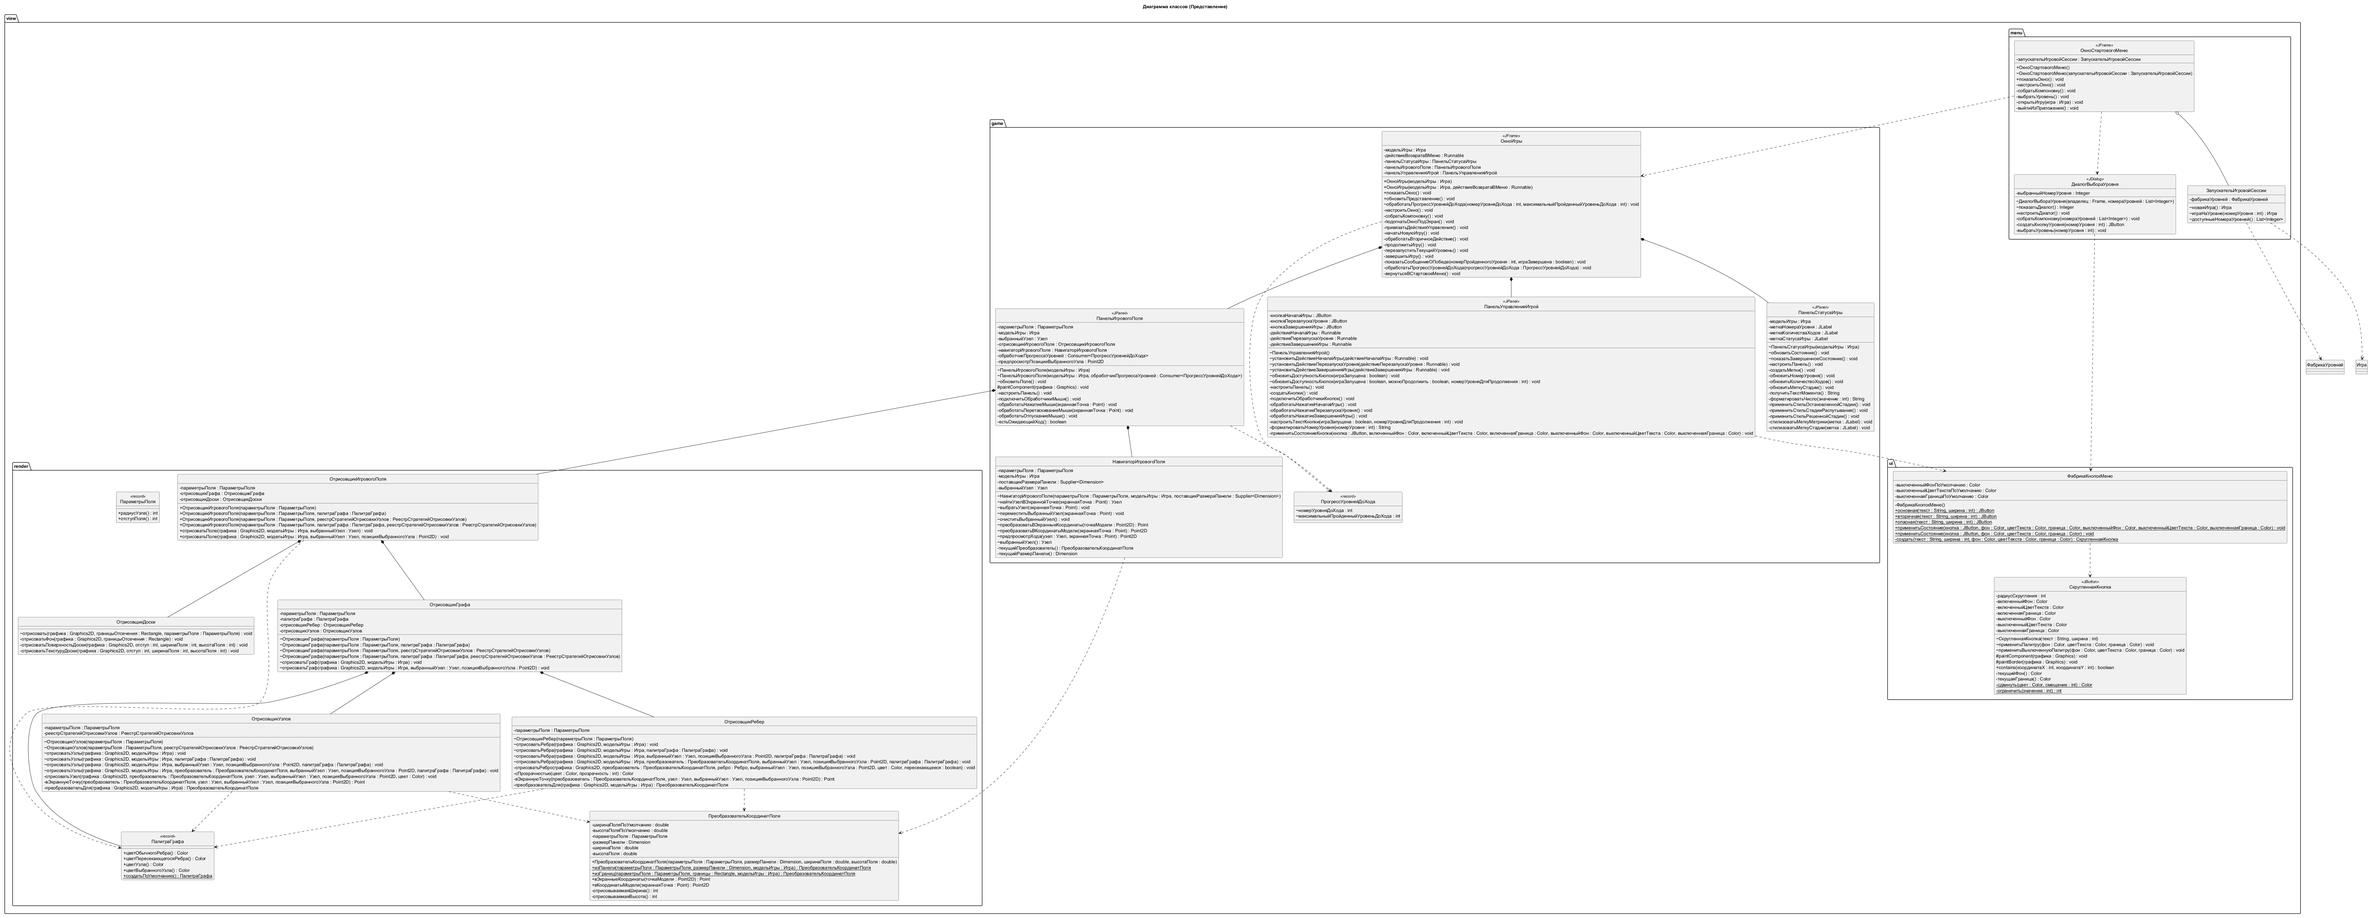
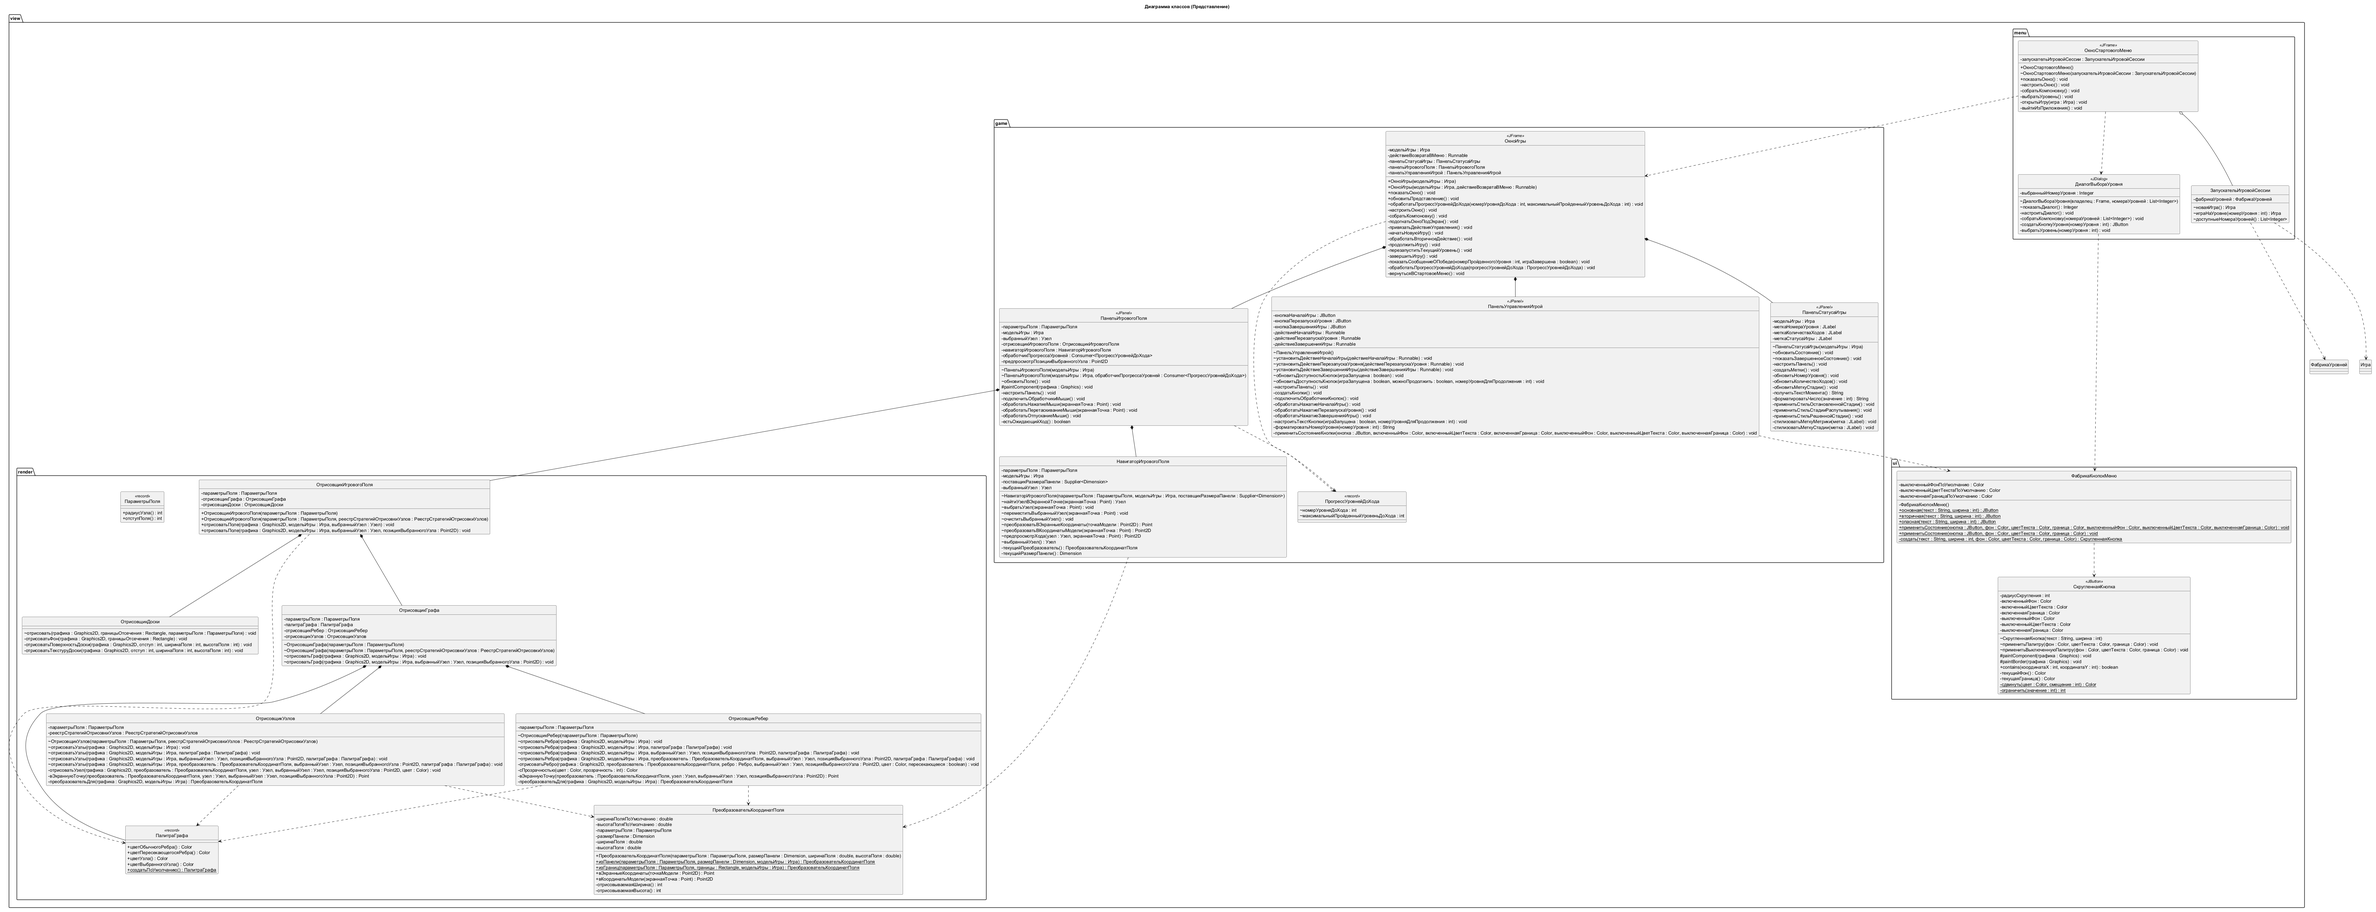
[view] Упрощены конструкторы рендереров

diff --git a/test/view/render/GameFieldRendererTest.java b/test/view/render/GameFieldRendererTest.java
@@ -8,7 +8,6 @@ import org.junit.jupiter.api.DisplayName;
 import org.junit.jupiter.api.Test;
 import view.render.node.NodeRenderStrategyRegistry;
 
-import java.awt.Color;
 import java.awt.Graphics2D;
 import java.awt.Point;
 import java.awt.geom.Point2D;
@@ -26,8 +25,8 @@ class GameFieldRendererTest {
         Game game = startedGame();
         Node selectedNode = game.currentLevel().scheme().getNodes().getFirst();
         FieldParameters parameters = new FieldParameters(12, 28);
-        Color selectedColor = new Color(230, 155, 44);
-        GameFieldRenderer renderer = renderer(parameters, selectedColor);
+        GraphPalette palette = GraphPalette.defaultPalette();
+        GameFieldRenderer renderer = renderer(parameters);
 
         BufferedImage image = SwingTestSupport.createCanvas(320, 320);
         Graphics2D graphics = SwingTestSupport.createGraphics(image);
@@ -39,14 +38,14 @@ class GameFieldRendererTest {
 
         Point point = SwingTestSupport.toScreenPoint(parameters, game, selectedNode.getX(), selectedNode.getY(), image.getWidth(), image.getHeight());
 
-        assertEquals(selectedColor.getRGB(), image.getRGB(point.x, point.y));
+        assertEquals(palette.selectedNodeColor().getRGB(), image.getRGB(point.x, point.y));
     }
 
     @Test
     @DisplayName("Рендерер поля рисует поле, даже когда игра не запущена")
     void paintsFieldWhenGameIsStopped() {
         Game game = new Game();
-        GameFieldRenderer renderer = renderer(new FieldParameters(12, 28), new Color(230, 155, 44));
+        GameFieldRenderer renderer = renderer(new FieldParameters(12, 28));
 
         BufferedImage image = SwingTestSupport.createCanvas(320, 320);
         Graphics2D graphics = SwingTestSupport.createGraphics(image);
@@ -63,7 +62,6 @@ class GameFieldRendererTest {
     @DisplayName("Рендерер поля не принимает пустые параметры поля")
     void rejectsNullFieldParameters() {
         assertThrows(NullPointerException.class, () -> new GameFieldRenderer(null));
-        assertThrows(NullPointerException.class, () -> new GameFieldRenderer(null, GraphPalette.defaultPalette()));
     }
 
     @Test
@@ -75,17 +73,9 @@ class GameFieldRendererTest {
     }
 
     @Test
-    @DisplayName("Рендерер поля не принимает пустую палитру графа")
-    void rejectsNullGraphPalette() {
-        FieldParameters parameters = new FieldParameters(12, 28);
-
-        assertThrows(NullPointerException.class, () -> new GameFieldRenderer(parameters, (GraphPalette) null));
-    }
-
-    @Test
     @DisplayName("Рендерер поля не принимает пустой графический контекст")
     void rejectsNullGraphics() {
-        assertThrows(NullPointerException.class, () -> renderer(new FieldParameters(12, 28), Color.ORANGE).drawField(null, new Game(), null));
+        assertThrows(NullPointerException.class, () -> renderer(new FieldParameters(12, 28)).drawField(null, new Game(), null));
     }
 
     @Test
@@ -94,7 +84,7 @@ class GameFieldRendererTest {
         BufferedImage image = SwingTestSupport.createCanvas(320, 320);
         Graphics2D graphics = SwingTestSupport.createGraphics(image);
         try {
-            assertThrows(NullPointerException.class, () -> renderer(new FieldParameters(12, 28), Color.ORANGE).drawField(graphics, null, null));
+            assertThrows(NullPointerException.class, () -> renderer(new FieldParameters(12, 28)).drawField(graphics, null, null));
         } finally {
             graphics.dispose();
         }
@@ -105,7 +95,7 @@ class GameFieldRendererTest {
     void paintsBackgroundAndBoardWithDifferentColors() {
         Game game = startedGame();
         FieldParameters parameters = new FieldParameters(12, 28);
-        GameFieldRenderer renderer = renderer(parameters, new Color(230, 155, 44));
+        GameFieldRenderer renderer = renderer(parameters);
         BufferedImage image = SwingTestSupport.createCanvas(320, 320);
         Graphics2D graphics = SwingTestSupport.createGraphics(image);
         try {
@@ -125,14 +115,8 @@ class GameFieldRendererTest {
     void usesRegularNodeColorForUnselectedNode() {
         Game game = startedGame();
         FieldParameters parameters = new FieldParameters(12, 28);
-        Color nodeColor = new Color(53, 111, 179);
-        GraphPalette palette = new GraphPalette(
-                new Color(66, 63, 60),
-                new Color(198, 59, 59),
-                nodeColor,
-                new Color(230, 155, 44)
-        );
-        GameFieldRenderer renderer = new GameFieldRenderer(parameters, palette);
+        GraphPalette palette = GraphPalette.defaultPalette();
+        GameFieldRenderer renderer = new GameFieldRenderer(parameters);
         Node node = game.currentLevel().scheme().getNodes().getFirst();
 
         BufferedImage image = SwingTestSupport.createCanvas(320, 320);
@@ -145,7 +129,7 @@ class GameFieldRendererTest {
 
         Point point = SwingTestSupport.toScreenPoint(parameters, game, node.getX(), node.getY(), image.getWidth(), image.getHeight());
 
-        assertEquals(nodeColor.getRGB(), image.getRGB(point.x, point.y));
+        assertEquals(palette.nodeColor().getRGB(), image.getRGB(point.x, point.y));
     }
 
     @Test
@@ -153,15 +137,8 @@ class GameFieldRendererTest {
     void updatesEdgeColorInPreviewBeforeMouseRelease() {
         Game game = startedGame();
         FieldParameters parameters = new FieldParameters(12, 28);
-        Color normalEdgeColor = new Color(66, 63, 60);
-        Color intersectingEdgeColor = new Color(198, 59, 59);
-        GraphPalette palette = new GraphPalette(
-                normalEdgeColor,
-                intersectingEdgeColor,
-                new Color(53, 111, 179),
-                new Color(230, 155, 44)
-        );
-        GameFieldRenderer renderer = new GameFieldRenderer(parameters, palette);
+        GraphPalette palette = GraphPalette.defaultPalette();
+        GameFieldRenderer renderer = new GameFieldRenderer(parameters);
         Node selectedNode = game.currentLevel().scheme().getNodes().get(1);
 
         BufferedImage image = SwingTestSupport.createCanvas(320, 320);
@@ -174,14 +151,14 @@ class GameFieldRendererTest {
 
         Point point = SwingTestSupport.toScreenPoint(parameters, game, 50, 7.5, image.getWidth(), image.getHeight());
 
-        assertEquals(normalEdgeColor.getRGB(), image.getRGB(point.x, point.y));
-        assertNotEquals(intersectingEdgeColor.getRGB(), image.getRGB(point.x, point.y));
+        assertEquals(palette.normalEdgeColor().getRGB(), image.getRGB(point.x, point.y));
+        assertNotEquals(palette.intersectingEdgeColor().getRGB(), image.getRGB(point.x, point.y));
     }
 
     @Test
     @DisplayName("Рендерер поля может рисовать без явной области отсечения")
     void canDrawWithoutExplicitClip() {
-        GameFieldRenderer renderer = renderer(new FieldParameters(12, 28), new Color(230, 155, 44));
+        GameFieldRenderer renderer = renderer(new FieldParameters(12, 28));
         BufferedImage image = SwingTestSupport.createCanvas(320, 320);
         Graphics2D graphics = image.createGraphics();
         try {
@@ -197,15 +174,7 @@ class GameFieldRendererTest {
         return game;
     }
 
-    private static GameFieldRenderer renderer(FieldParameters parameters, Color selectedColor) {
-        return new GameFieldRenderer(
-                parameters,
-                new GraphPalette(
-                        new Color(66, 63, 60),
-                        new Color(198, 59, 59),
-                        new Color(53, 111, 179),
-                        selectedColor
-                )
-        );
+    private static GameFieldRenderer renderer(FieldParameters parameters) {
+        return new GameFieldRenderer(parameters);
     }
 }

diff --git a/test/view/render/NodeRendererTest.java b/test/view/render/NodeRendererTest.java
@@ -24,13 +24,13 @@ class NodeRendererTest {
     @Test
     @DisplayName("Рендерер узлов не принимает пустые параметры поля")
     void rejectsNullFieldParameters() {
-        assertThrows(NullPointerException.class, () -> new NodeRenderer(null));
+        assertThrows(NullPointerException.class, () -> new NodeRenderer(null, NodeRenderStrategyRegistry.createDefault()));
     }
 
     @Test
     @DisplayName("Рендерер узлов не принимает пустой графический контекст")
     void rejectsNullGraphics() {
-        assertThrows(NullPointerException.class, () -> new NodeRenderer(new FieldParameters(12, 28)).drawNodes(null, new Game()));
+        assertThrows(NullPointerException.class, () -> renderer(new FieldParameters(12, 28)).drawNodes(null, new Game()));
     }
 
     @Test
@@ -39,7 +39,7 @@ class NodeRendererTest {
         BufferedImage image = SwingTestSupport.createCanvas(320, 320);
         Graphics2D graphics = SwingTestSupport.createGraphics(image);
         try {
-            assertThrows(NullPointerException.class, () -> new NodeRenderer(new FieldParameters(12, 28)).drawNodes(graphics, null));
+            assertThrows(NullPointerException.class, () -> renderer(new FieldParameters(12, 28)).drawNodes(graphics, null));
         } finally {
             graphics.dispose();
         }
@@ -51,7 +51,7 @@ class NodeRendererTest {
         Game game = startedGame();
         FieldParameters parameters = new FieldParameters(12, 28);
         Node node = game.currentLevel().scheme().getNodes().getFirst();
-        NodeRenderer renderer = new NodeRenderer(parameters);
+        NodeRenderer renderer = renderer(parameters);
         BufferedImage image = SwingTestSupport.createCanvas(320, 320);
         Graphics2D graphics = SwingTestSupport.createGraphics(image);
         Color nodeColor = new Color(40, 120, 190);
@@ -74,7 +74,7 @@ class NodeRendererTest {
         Game game = startedGame();
         FieldParameters parameters = new FieldParameters(12, 28);
         Node node = game.currentLevel().scheme().getNodes().getFirst();
-        NodeRenderer renderer = new NodeRenderer(parameters);
+        NodeRenderer renderer = renderer(parameters);
         BufferedImage image = SwingTestSupport.createCanvas(320, 320);
         Graphics2D graphics = SwingTestSupport.createGraphics(image);
         Color nodeColor = new Color(40, 120, 190);
@@ -97,7 +97,7 @@ class NodeRendererTest {
         Game game = startedGame();
         FieldParameters parameters = new FieldParameters(12, 28);
         Node node = game.currentLevel().scheme().getNodes().get(2);
-        NodeRenderer renderer = new NodeRenderer(parameters);
+        NodeRenderer renderer = renderer(parameters);
         BufferedImage image = SwingTestSupport.createCanvas(320, 320);
         Graphics2D graphics = SwingTestSupport.createGraphics(image);
         Color nodeColor = new Color(40, 120, 190);
@@ -119,7 +119,7 @@ class NodeRendererTest {
         Game game = startedGame();
         FieldParameters parameters = new FieldParameters(12, 28);
         Node node = game.currentLevel().scheme().getNodes().get(3);
-        NodeRenderer renderer = new NodeRenderer(parameters);
+        NodeRenderer renderer = renderer(parameters);
         BufferedImage image = SwingTestSupport.createCanvas(320, 320);
         Graphics2D graphics = SwingTestSupport.createGraphics(image);
         Color nodeColor = new Color(40, 120, 190);
@@ -165,7 +165,7 @@ class NodeRendererTest {
     @DisplayName("Рендерер узлов не меняет изображение, когда игра не запущена")
     void leavesImageUnchangedWhenGameIsNotStarted() {
         Game game = new Game();
-        NodeRenderer renderer = new NodeRenderer(new FieldParameters(12, 28));
+        NodeRenderer renderer = renderer(new FieldParameters(12, 28));
         BufferedImage image = SwingTestSupport.createCanvas(320, 320);
         Graphics2D graphics = SwingTestSupport.createGraphics(image);
         try {
@@ -181,7 +181,7 @@ class NodeRendererTest {
     @DisplayName("Рендерер узлов может рисовать без явной области отсечения")
     void canDrawWithoutExplicitClip() {
         Game game = startedGame();
-        NodeRenderer renderer = new NodeRenderer(new FieldParameters(12, 28));
+        NodeRenderer renderer = renderer(new FieldParameters(12, 28));
         BufferedImage image = SwingTestSupport.createCanvas(320, 320);
         Graphics2D graphics = image.createGraphics();
         try {
@@ -195,7 +195,7 @@ class NodeRendererTest {
     @DisplayName("Рендерер узлов не принимает пустую палитру")
     void rejectsNullPalette() {
         Game game = startedGame();
-        NodeRenderer renderer = new NodeRenderer(new FieldParameters(12, 28));
+        NodeRenderer renderer = renderer(new FieldParameters(12, 28));
         BufferedImage image = SwingTestSupport.createCanvas(320, 320);
         Graphics2D graphics = SwingTestSupport.createGraphics(image);
         try {
@@ -215,5 +215,9 @@ class NodeRendererTest {
         Game game = new Game();
         game.start();
         return game;
+    }
+
+    private static NodeRenderer renderer(FieldParameters parameters) {
+        return new NodeRenderer(parameters, NodeRenderStrategyRegistry.createDefault());
     }
 }

diff --git a/test/view/render/GraphRendererTest.java b/test/view/render/GraphRendererTest.java
@@ -6,15 +6,14 @@ import model.core.Game;
 import model.core.Node;
 import org.junit.jupiter.api.DisplayName;
 import org.junit.jupiter.api.Test;
+import view.render.node.NodeRenderStrategyRegistry;
 
-import java.awt.Color;
 import java.awt.Graphics2D;
 import java.awt.Point;
 import java.awt.image.BufferedImage;
 
 import static org.junit.jupiter.api.Assertions.assertDoesNotThrow;
 import static org.junit.jupiter.api.Assertions.assertEquals;
-import static org.junit.jupiter.api.Assertions.assertNotEquals;
 import static org.junit.jupiter.api.Assertions.assertThrows;
 
 class GraphRendererTest {
@@ -66,36 +65,6 @@ class GraphRendererTest {
     }
 
     @Test
-    @DisplayName("Рендерер графа использует кастомную палитру")
-    void usesCustomPalette() {
-        Game game = startedGame();
-        FieldParameters parameters = new FieldParameters(12, 28);
-        Color normalEdge = new Color(1, 2, 3);
-        Color intersectingEdge = new Color(4, 5, 6);
-        Color nodeColor = new Color(7, 8, 9);
-        Color selectedColor = new Color(10, 11, 12);
-        GraphRenderer renderer = new GraphRenderer(
-                parameters,
-                new GraphPalette(normalEdge, intersectingEdge, nodeColor, selectedColor)
-        );
-        BufferedImage image = SwingTestSupport.createCanvas(320, 320);
-        Graphics2D graphics = SwingTestSupport.createGraphics(image);
-        Node node = game.currentLevel().scheme().getNodes().getFirst();
-        try {
-            renderer.drawGraph(graphics, game, node, null);
-        } finally {
-            graphics.dispose();
-        }
-
-        Point nodePoint = SwingTestSupport.toScreenPoint(parameters, game, node.getX(), node.getY(), image.getWidth(), image.getHeight());
-        Point edgePoint = SwingTestSupport.toScreenPoint(parameters, game, 50, 50, image.getWidth(), image.getHeight());
-
-        assertEquals(selectedColor.getRGB(), image.getRGB(nodePoint.x, nodePoint.y));
-        assertEquals(intersectingEdge.getRGB(), image.getRGB(edgePoint.x, edgePoint.y));
-        assertNotEquals(0, image.getRGB(nodePoint.x, nodePoint.y));
-    }
-
-    @Test
     @DisplayName("Рендерер графа не падает, когда игра не запущена")
     void doesNotFailWhenGameIsNotStarted() {
         GraphRenderer renderer = new GraphRenderer(new FieldParameters(12, 28));
@@ -109,9 +78,9 @@ class GraphRendererTest {
     }
 
     @Test
-    @DisplayName("Рендерер графа не принимает пустую палитру")
-    void rejectsNullPalette() {
-        assertThrows(NullPointerException.class, () -> new GraphRenderer(new FieldParameters(12, 28), (GraphPalette) null));
+    @DisplayName("Рендерер графа не принимает пустой реестр стратегий отрисовки")
+    void rejectsNullNodeRenderStrategyRegistry() {
+        assertThrows(NullPointerException.class, () -> new GraphRenderer(new FieldParameters(12, 28), (NodeRenderStrategyRegistry) null));
     }
 
     private static Game startedGame() {

diff --git a/src/view/render/GameFieldRenderer.java b/src/view/render/GameFieldRenderer.java
@@ -16,32 +16,16 @@ public final class GameFieldRenderer {
     private final BoardRenderer boardRenderer;
 
     public GameFieldRenderer(FieldParameters fieldParameters) {
-        this(fieldParameters, GraphPalette.defaultPalette());
+        this(fieldParameters, NodeRenderStrategyRegistry.createDefault());
     }
 
     public GameFieldRenderer(
             FieldParameters fieldParameters,
-            GraphPalette graphPalette
-    ) {
-        this(fieldParameters, graphPalette, NodeRenderStrategyRegistry.createDefault());
-    }
-
-    public GameFieldRenderer(
-            FieldParameters fieldParameters,
-            NodeRenderStrategyRegistry nodeRenderStrategyRegistry
-    ) {
-        this(fieldParameters, GraphPalette.defaultPalette(), nodeRenderStrategyRegistry);
-    }
-
-    public GameFieldRenderer(
-            FieldParameters fieldParameters,
-            GraphPalette graphPalette,
             NodeRenderStrategyRegistry nodeRenderStrategyRegistry
     ) {
         this.fieldParameters = Objects.requireNonNull(fieldParameters, "fieldParameters");
         graphRenderer = new GraphRenderer(
                 fieldParameters,
-                Objects.requireNonNull(graphPalette, "graphPalette"),
                 Objects.requireNonNull(nodeRenderStrategyRegistry, "nodeRenderStrategyRegistry")
         );
         boardRenderer = new BoardRenderer();

diff --git a/src/view/render/GraphRenderer.java b/src/view/render/GraphRenderer.java
@@ -15,24 +15,12 @@ final class GraphRenderer {
     private final NodeRenderer nodeRenderer;
 
     GraphRenderer(FieldParameters fieldParameters) {
-        this(fieldParameters, GraphPalette.defaultPalette());
-    }
-
-    GraphRenderer(FieldParameters fieldParameters, GraphPalette graphPalette) {
-        this(fieldParameters, graphPalette, NodeRenderStrategyRegistry.createDefault());
+        this(fieldParameters, NodeRenderStrategyRegistry.createDefault());
     }
 
     GraphRenderer(FieldParameters fieldParameters, NodeRenderStrategyRegistry nodeRenderStrategyRegistry) {
-        this(fieldParameters, GraphPalette.defaultPalette(), nodeRenderStrategyRegistry);
-    }
-
-    GraphRenderer(
-            FieldParameters fieldParameters,
-            GraphPalette graphPalette,
-            NodeRenderStrategyRegistry nodeRenderStrategyRegistry
-    ) {
         this.fieldParameters = Objects.requireNonNull(fieldParameters, "fieldParameters");
-        this.graphPalette = Objects.requireNonNull(graphPalette, "graphPalette");
+        this.graphPalette = GraphPalette.defaultPalette();
         this.edgeRenderer = new EdgeRenderer(fieldParameters);
         this.nodeRenderer = new NodeRenderer(fieldParameters, nodeRenderStrategyRegistry);
     }

diff --git a/src/view/render/NodeRenderer.java b/src/view/render/NodeRenderer.java
@@ -15,11 +15,6 @@ final class NodeRenderer {
     private final FieldParameters fieldParameters;
     private final NodeRenderStrategyRegistry nodeRenderStrategyRegistry;
 
-    NodeRenderer(FieldParameters fieldParameters) {
-        this.fieldParameters = Objects.requireNonNull(fieldParameters, "fieldParameters");
-        this.nodeRenderStrategyRegistry = NodeRenderStrategyRegistry.createDefault();
-    }
-
     NodeRenderer(FieldParameters fieldParameters, NodeRenderStrategyRegistry nodeRenderStrategyRegistry) {
         this.fieldParameters = Objects.requireNonNull(fieldParameters, "fieldParameters");
         this.nodeRenderStrategyRegistry = Objects.requireNonNull(nodeRenderStrategyRegistry, "nodeRenderStrategyRegistry");
